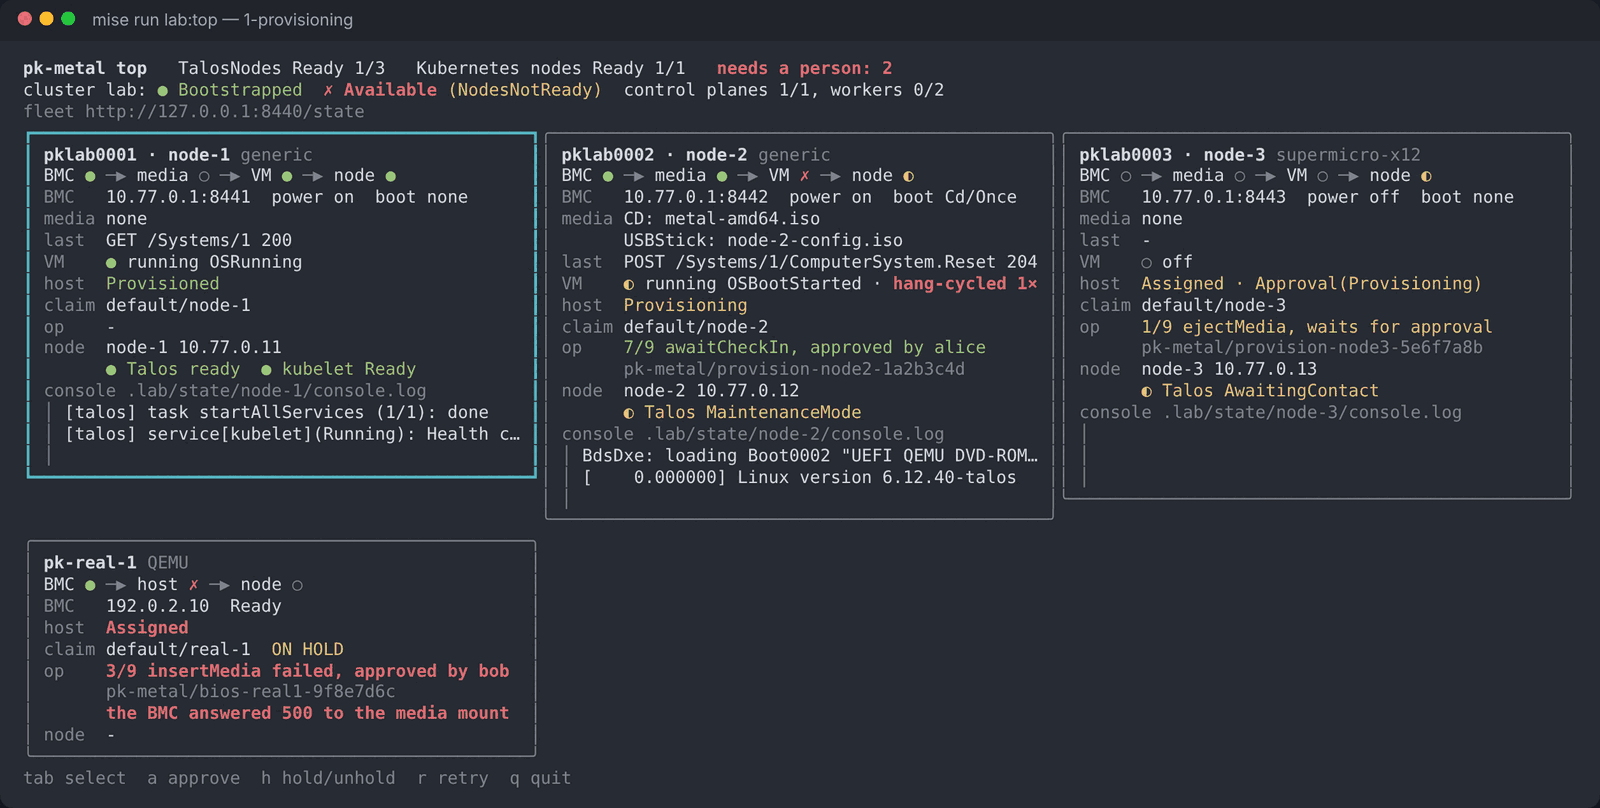
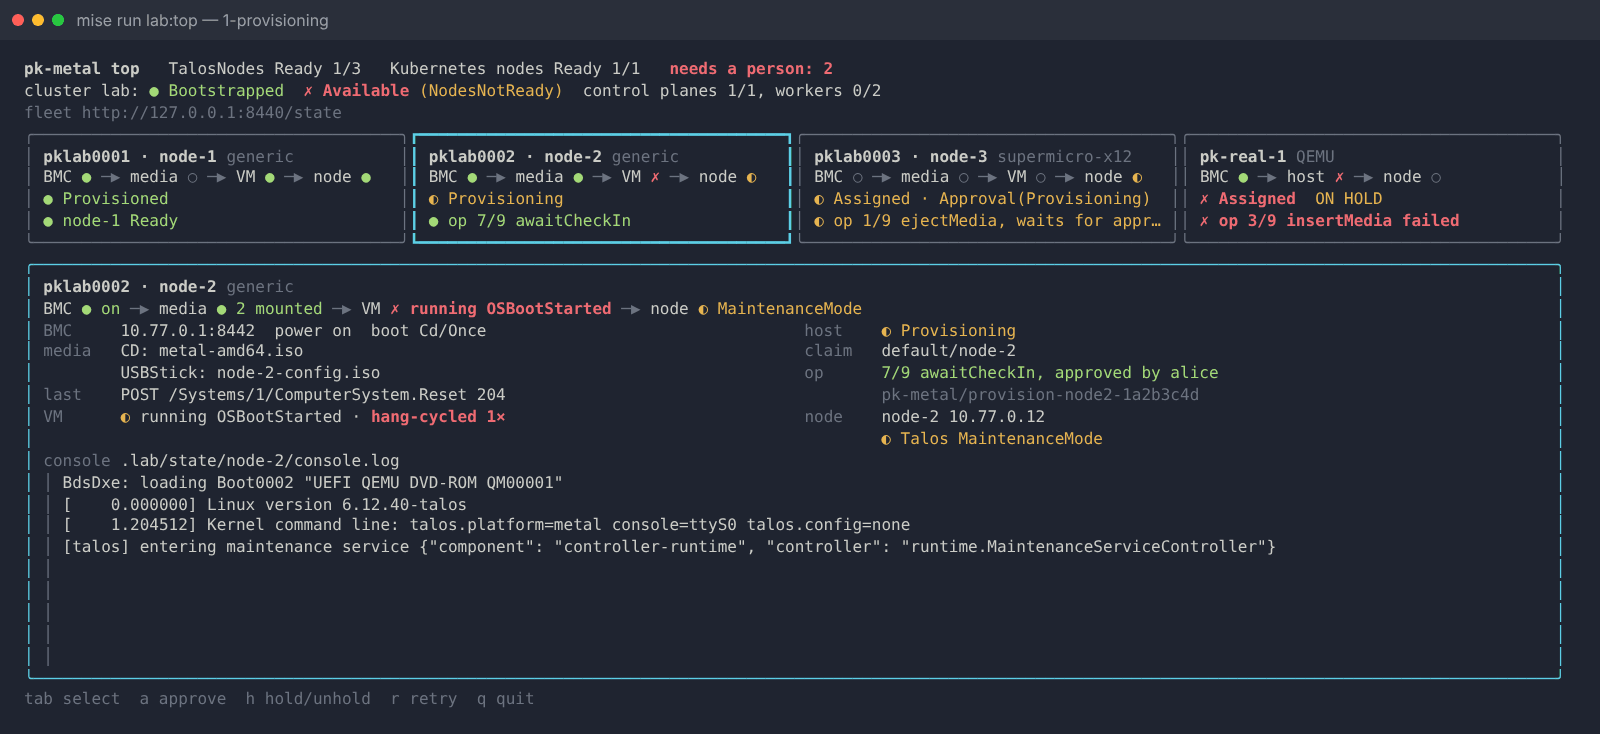
docs: show the compact tiles and the detail panel of top
- Describe the tiles and the detail panel in the top help text, and
  regenerate the CLI reference data from it
- Render the lab:top mock screens again from the view code: the
  provisioning, all-ready and real-hardware screens
- Render the frames of the lab:top replay again from the view code;
  the approval frame stays as it was
- Say what the tiles and the panel show in the lab tasks reference and
  in the first-cluster tutorial

Changed region(s): [[0.0, 0.0, 0.9688, 0.9891]]

diff --git a/metal/cmd/pk-metal/top.go b/metal/cmd/pk-metal/top.go
@@ -35,19 +35,23 @@ import (
 
 func init() {
 	verbHelp["top"] = `
-A live view of every machine, updated as the cluster changes. One tile per
-machine shows its BMC, the Host phase and what blocks it, the claim, the
-operation that runs (for example "5/9 setBootOverride") and whether it waits
-for approval, and the TalosNode. The header shows each TalosCluster and how
-many nodes are Ready, and each TalosRollout that has not succeeded: its nodes
-done and where it stands (approve and resume it with pk-metal rollout).
+A live view of every machine, updated as the cluster changes. One small tile
+per machine shows where it is on its way from BMC to node, the Host phase and
+what blocks it, and the operation that runs or else its node. The operation
+shows as its step, for example "5/9 setBootOverride". Below the tiles, a panel as wide as the
+terminal shows the selected machine in full: its BMC, the Host, the claim, the
+operation and whether it waits for approval, and the TalosNode. The header
+shows each TalosCluster and how many nodes are Ready, and each TalosRollout
+that has not succeeded: its nodes done and where it stands (approve and resume
+it with pk-metal rollout).
 
-With --fleet (the simulator's state endpoint, as in the virtual lab) each
-tile also shows what the simulated BMC holds (power, media, boot override,
-the last Redfish call), whether the VM runs, and the last console lines.
-Without it, top works the same against real hardware.
+With --fleet (the simulator's state endpoint, as in the virtual lab) the panel
+also shows what the simulated BMC holds (power, media, boot override, the last
+Redfish call), whether the VM runs, and the last console lines, as many as the
+terminal height leaves room for. Without it, top works the same against real
+hardware.
 
-With --workload-kubeconfig the tiles also show whether each node is Ready in
+With --workload-kubeconfig the panel also shows whether the node is Ready in
 the workload cluster itself.
 
 keys:
